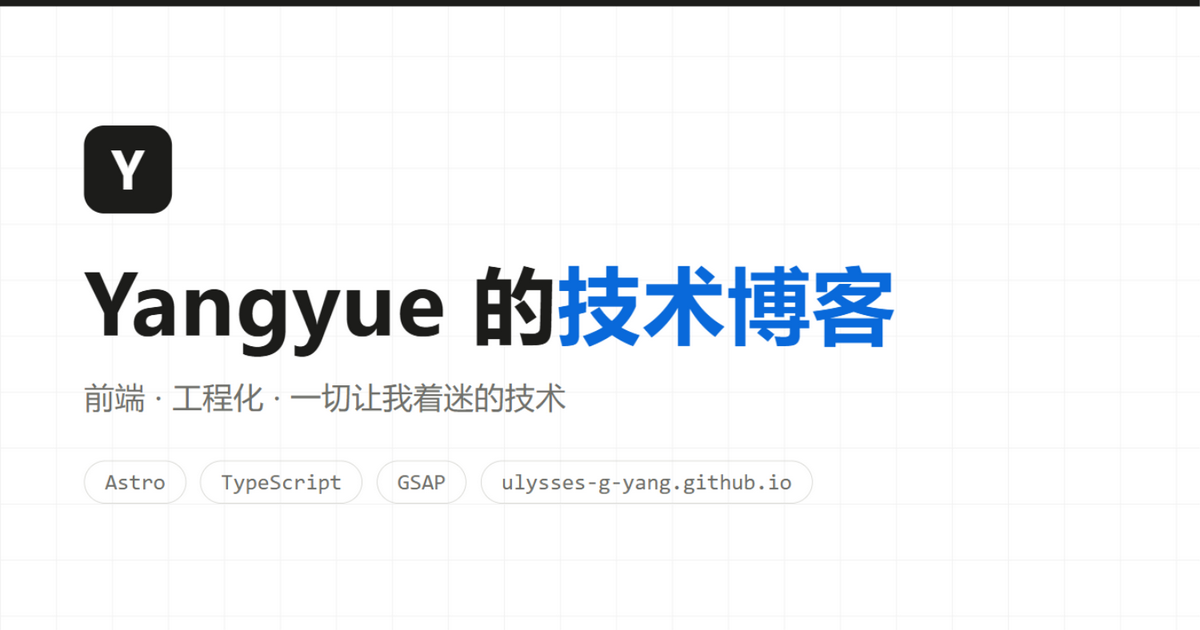
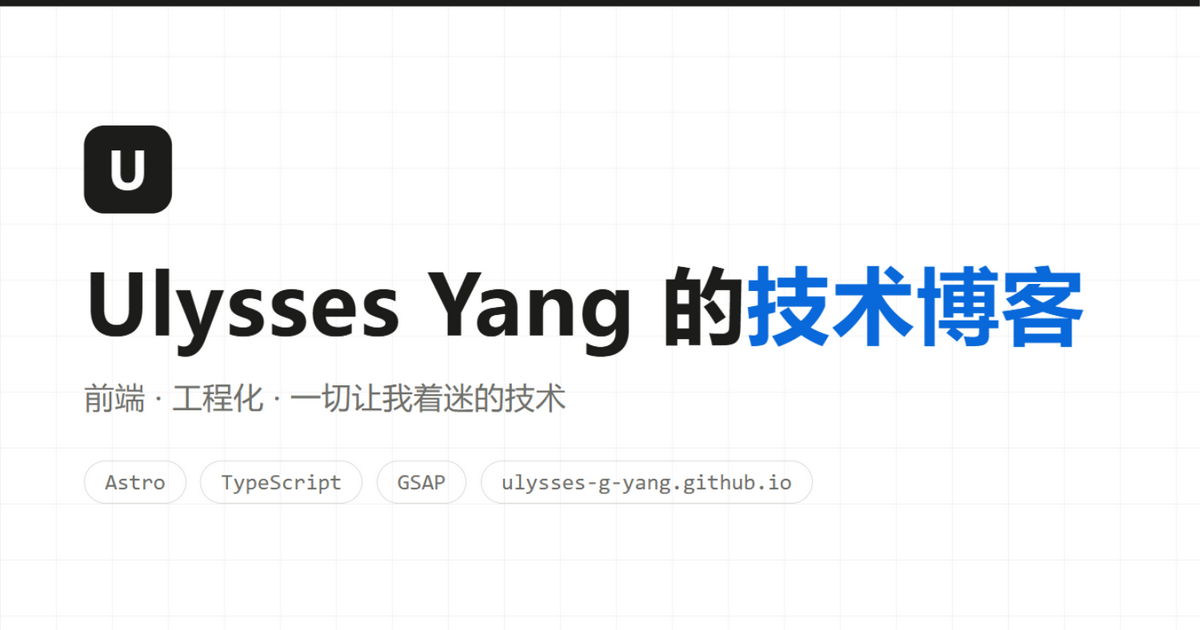
fix: 站点名称与作者改为 GitHub 名字 Ulysses Yang

Changed region(s): [[0.0617, 0.4222, 0.925, 0.573], [0.0925, 0.2413, 0.1233, 0.3016]]

diff --git a/src/config.ts b/src/config.ts
@@ -4,11 +4,11 @@
 
 export const SITE = {
   /** 站点名(浏览器标题、页头 Logo、RSS) */
-  title: 'Yangyue 的技术博客',
+  title: 'Ulysses Yang 的技术博客',
   /** 站点描述(SEO / RSS / 分享卡片) */
   description: '一个关于前端、工程化与奇技淫巧的个人技术博客。',
   /** 作者名 */
-  author: 'Yangyue',
+  author: 'Ulysses Yang',
   /** 你的 GitHub 主页(页脚、关于页都会用到) */
   url: 'https://ulysses-g-yang.github.io',
   github: 'https://github.com/Ulysses-G-Yang',

diff --git a/README.md b/README.md
@@ -1,4 +1,4 @@
-# Yangyue 的技术博客
+# Ulysses Yang 的技术博客
 
 基于 **Astro 5 + TypeScript + Tailwind CSS 4** 的个人技术博客。设计:白底黑字的极简排版,单一蓝色点缀,幕布转场动效(GTA5 官网式渐入),可切暗色。双端部署:GitHub Pages(公网)+ 家庭服务器(局域网镜像 + umami 统计)。
 
